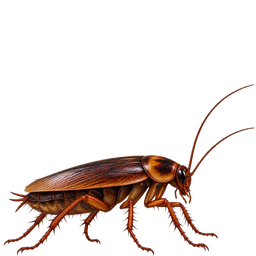
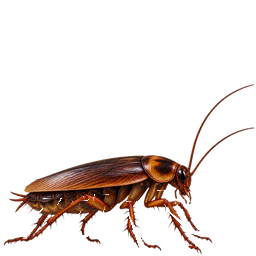
ROACH-14: approve walk articulation and add run candidate v1

Changed region(s): [[0.0312, 0.75, 0.4375, 1.0], [0.625, 0.7188, 0.875, 1.0], [0.4688, 0.7812, 0.625, 1.0]]

diff --git a/scripts/roach-premium-run-articulate.py b/scripts/roach-premium-run-articulate.py
@@ -1,0 +1,62 @@
+from PIL import Image, ImageDraw, ImageChops
+from pathlib import Path
+import hashlib, json
+
+ROOT = Path(__file__).resolve().parents[1]
+SRC = ROOT / 'public/assets/player/premium-v1/frames/idle/roach_idle_01.png'
+OUT = ROOT / 'public/assets/player/premium-v1/frames/run'
+BASE = Image.open(SRC).convert('RGBA')
+
+LEGS = [
+    ('rear_near', [(73,200),(88,199),(72,224),(45,253),(17,255),(12,247),(49,225),(69,207)], (80,207)),
+    ('mid_near', [(126,201),(138,200),(160,241),(158,256),(142,256),(128,214)], (133,207)),
+    ('front_near', [(175,201),(187,198),(222,239),(222,255),(201,255),(177,214)], (183,205)),
+    ('rear_far', [(43,198),(61,198),(49,216),(25,236),(4,237),(4,228),(28,220),(43,207)], (53,206)),
+    ('mid_far', [(94,194),(108,194),(103,211),(90,235),(78,239),(76,231),(90,215)], (101,204)),
+    ('front_far', [(157,190),(171,190),(177,205),(201,226),(202,236),(190,233),(168,211)], (166,201)),
+]
+SEQUENCE = [
+    [0,0,0,0,0,0],
+    [5,-5,5,-4,4,-4],
+    [9,-9,9,-7,7,-7],
+    [5,-5,5,-4,4,-4],
+    [0,0,0,0,0,0],
+    [-5,5,-5,4,-4,4],
+    [-9,9,-9,7,-7,7],
+    [-5,5,-5,4,-4,4],
+]
+
+def rotate_masked(base_img, poly, angle, pivot):
+    if abs(angle) < 0.01:
+        return base_img
+    mask = Image.new('L', base_img.size, 0)
+    ImageDraw.Draw(mask).polygon(poly, fill=255)
+    mask = ImageChops.multiply(mask, base_img.getchannel('A'))
+    part = Image.new('RGBA', base_img.size, (0,0,0,0))
+    part.paste(base_img, (0,0), mask)
+    clean = base_img.copy()
+    clean.putalpha(ImageChops.subtract(clean.getchannel('A'), mask))
+    rotated = part.rotate(angle, resample=Image.Resampling.BICUBIC, center=pivot, expand=False)
+    return Image.alpha_composite(clean, rotated)
+def main():
+    OUT.mkdir(parents=True, exist_ok=True)
+    rows = []
+    leg_names = [name for name, _, _ in LEGS]
+    for idx, angles in enumerate(SEQUENCE, 1):
+        frame = BASE.copy()
+        for (_, poly, pivot), angle in zip(LEGS, angles):
+            frame = rotate_masked(frame, poly, angle, pivot)
+        fp = OUT / f'roach_run_{idx:02d}.png'
+        frame.save(fp, optimize=True)
+        data = fp.read_bytes()
+        rows.append({
+            'index': idx,
+            'path': fp.relative_to(ROOT).as_posix(),
+            'sha256': hashlib.sha256(data).hexdigest(),
+            'alphaBounds': list(frame.getchannel('A').getbbox()),
+            'anglesDeg': dict(zip(leg_names, angles)),
+        })
+    print(json.dumps(rows, indent=2))
+
+if __name__ == '__main__':
+    main()

diff --git a/scripts/roach-premium-run-articulation-qa.py b/scripts/roach-premium-run-articulation-qa.py
@@ -1,0 +1,31 @@
+from pathlib import Path
+from PIL import Image, ImageChops
+import hashlib, json
+
+ROOT=Path(__file__).resolve().parents[1]
+manifest=json.loads((ROOT/'art/source/player/premium-v1/frames/run/run_family.manifest.json').read_text(encoding='utf-8'))
+base=Image.open(ROOT/'public/assets/player/premium-v1/frames/idle/roach_idle_01.png').convert('RGBA')
+lock_box=(0,0,256,189)
+
+if manifest.get('status')!='ARTICULATION_CANDIDATE_V1':
+    raise SystemExit(f'run status drift: {manifest.get("status")}')
+if manifest.get('runtimeReady') is not False:
+    raise SystemExit('run promoted too early')
+if manifest.get('upperBodyLockRegion') != [0,0,256,189]:
+    raise SystemExit('upper body lock region drift')
+if len(manifest.get('frames',[])) != 8:
+    raise SystemExit('run frame count drift')
+
+for frame in manifest['frames']:
+    p=ROOT/frame['path']
+    im=Image.open(p).convert('RGBA')
+    if hashlib.sha256(p.read_bytes()).hexdigest()!=frame['sha256']:
+        raise SystemExit(f'hash drift frame {frame["index"]}')
+    if im.size!=(256,256):
+        raise SystemExit(f'size drift frame {frame["index"]}')
+    if ImageChops.difference(base.crop(lock_box),im.crop(lock_box)).getbbox() is not None:
+        raise SystemExit(f'upper body identity drift frame {frame["index"]}')
+    if im.getchannel('A').getbbox()!=(1,84,255,256):
+        raise SystemExit(f'alpha bounds drift frame {frame["index"]}')
+
+print('PASS ROACH-14 RUN articulation QA: upper identity locked, six deterministic leg pivots, 8 frames')

diff --git a/scripts/roach-premium-walk-articulation-qa.py b/scripts/roach-premium-walk-articulation-qa.py
@@ -1,4 +1,4 @@
-from pathlib import Path
+from pathlib import Path
 from PIL import Image, ImageChops
 import hashlib, json, sys
 
@@ -6,7 +6,7 @@ ROOT=Path(__file__).resolve().parents[1]
 manifest=json.loads((ROOT/'art/source/player/premium-v1/frames/walk/walk_family.manifest.json').read_text(encoding='utf-8'))
 base=Image.open(ROOT/'public/assets/player/premium-v1/frames/idle/roach_idle_01.png').convert('RGBA')
 lock_box=(0,0,256,189)
-expected_status='ARTICULATION_CANDIDATE_V1'
+expected_status='ARTICULATION_VISUAL_APPROVED_RUNTIME_PENDING'
 
 if manifest.get('status')!=expected_status:
     raise SystemExit(f'walk status drift: {manifest.get("status")}')
